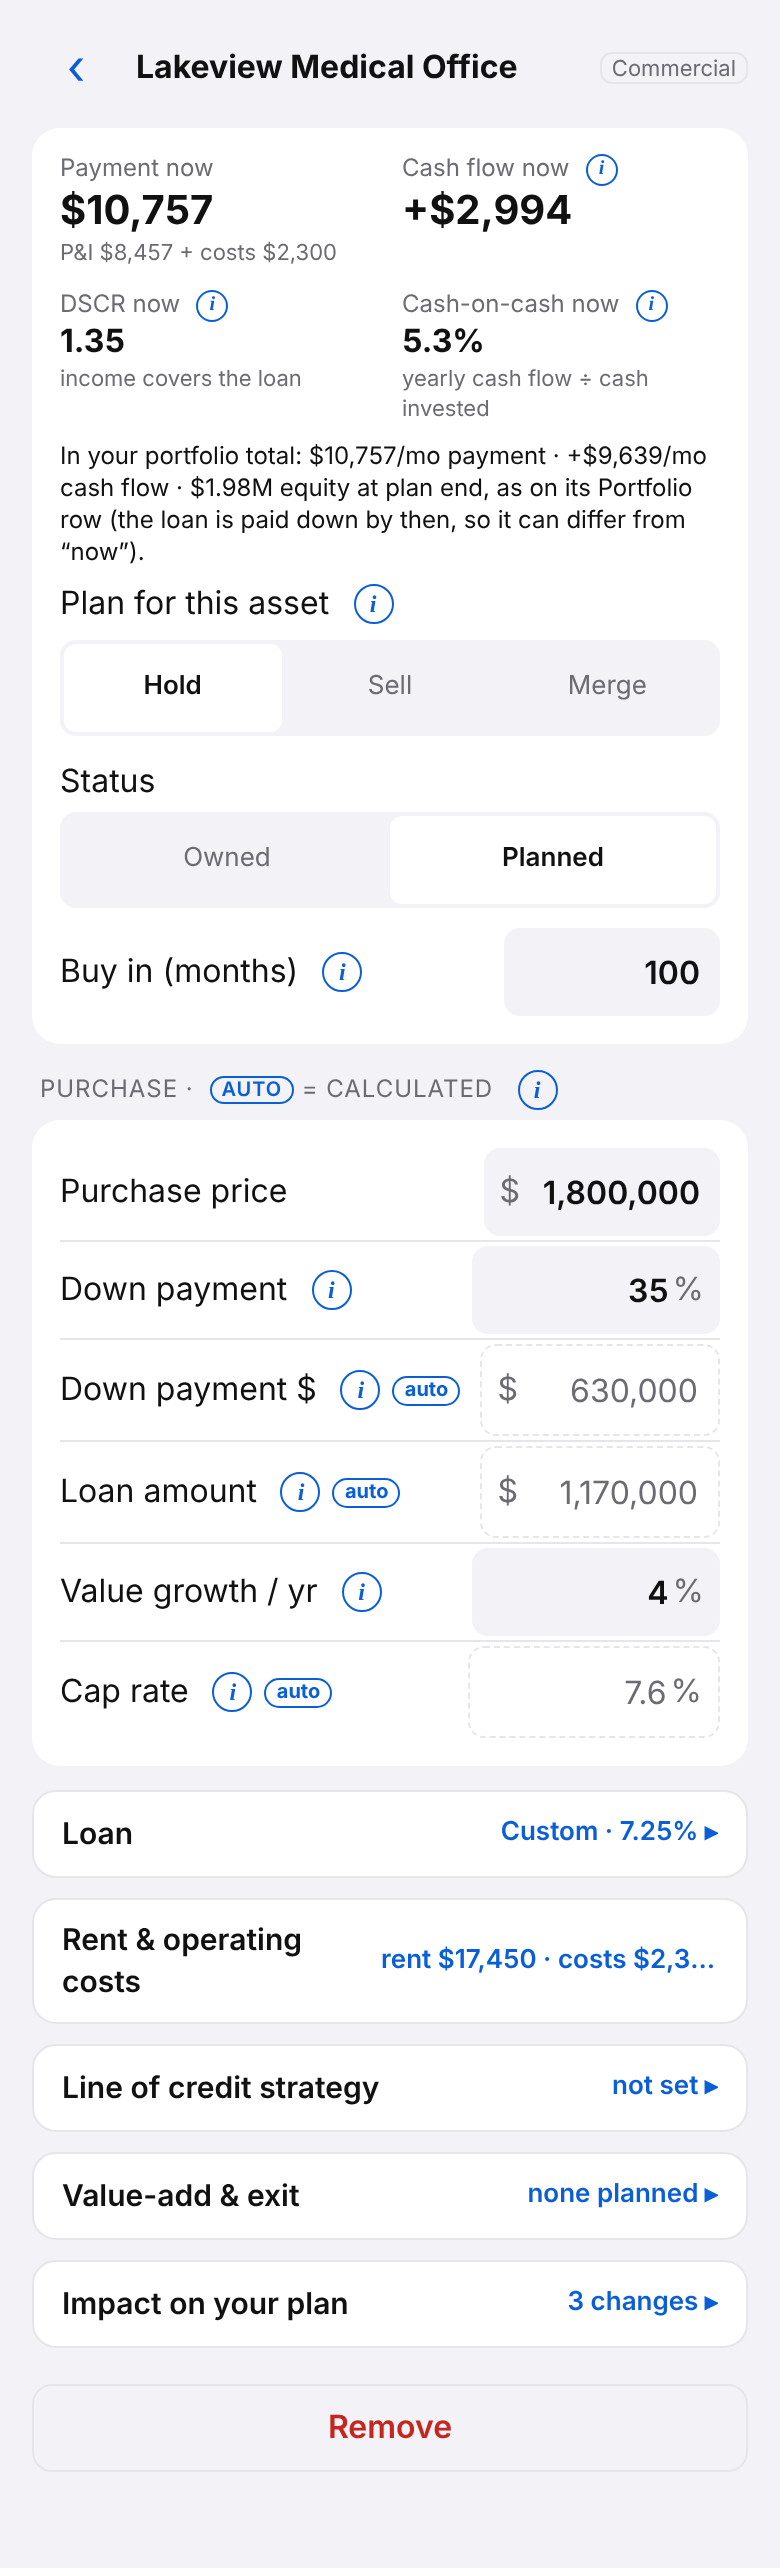
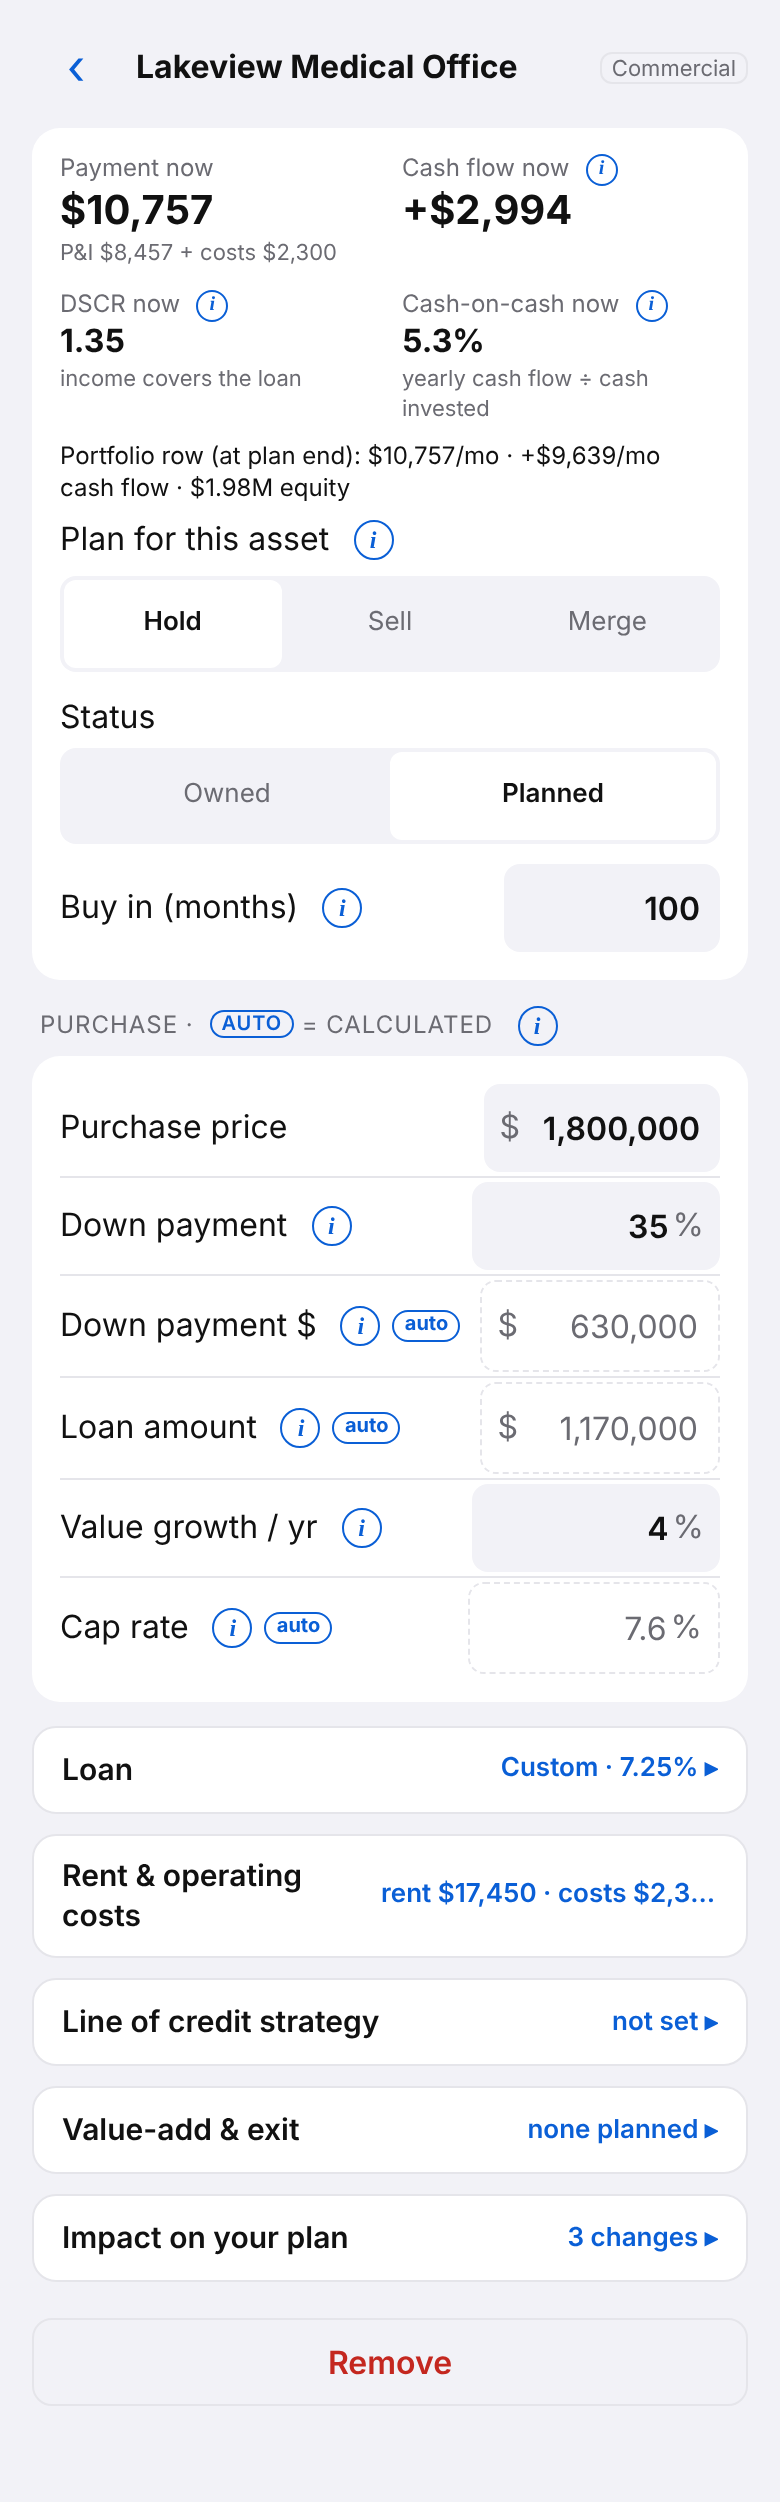
Shorter asset header sentence, Assumptions caption
Claude-Session: https://claude.ai/code/session_01T1SyQgdTcpALEohR2VebD5

diff --git a/prototype/v4/artifact.html b/prototype/v4/artifact.html
@@ -898,7 +898,7 @@ table.cmp td:first-child{white-space:nowrap}
     ${h.fresh && type === 'house' ? `<section class="card"><b>Have a Zillow listing?</b><p class="note">Fill in price, rent, taxes and insurance from a file.</p><button class="btn plain" data-go="import/${h.id}" data-testid="import-listing">Import from listing file</button></section>` : ''}
     <section class="card"><div class="kg">${kpi('h-payment', 'Payment now', $f(v.payment), (() => { const parts = []; if (v.P > 0) parts.push((h.io ? 'interest ' : 'P&amp;I ') + $f(v.P)); if (v.X > 0.5) parts.push('extra ' + $f(v.X)); if (v.escrow > 0) parts.push('costs ' + $f(v.escrow)); if (v.mip > 0) parts.push('insurance ' + $f(v.mip)); return parts.length > 1 ? parts.join(' + ') : ''; })())}${kpi('h-cf', 'Cash flow now', $s(v.cf), v.X > 0.5 ? `${$s(v.cf - v.X)} after extra` : '', v.cf < 0 ? 'bad' : '')}
       ${kpi('h-dscr', 'DSCR now', r(dscrH, 2), isFinite(dscrH) ? (dscrH >= 1.2 ? 'income covers the loan' : dscrH >= 1 ? 'thin cushion' : 'below 1.0') : 'no loan payment', isFinite(dscrH) && dscrH < 1 ? 'bad' : '', 1)}${kpi('h-coc', 'Cash-on-cash now', isFinite(coc) ? r(coc, 1) + '%' : '—', 'yearly cash flow ÷ cash invested', coc < 0 ? 'bad' : '', 1)}</div>
-      <p class="note share" data-testid="asset-share">${(() => { const sp = pl.snap.find((x) => x.id === h.id), ex = pl.exits[h.id]; if (ex && pl.sellAt[h.id] <= pl.planM) return 'In your portfolio total: sold in ' + mm(pl.sellAt[h.id]) + ' for ' + $c(ex.proceeds) + ', counted as cash.'; if (!sp) return 'In your portfolio total: not bought in this plan yet.'; return 'In your portfolio total: ' + $f(sp.payment) + '/mo payment · ' + $s(sp.cf) + '/mo cash flow · ' + $c(sp.equity) + ' equity at plan end, as on its Portfolio row (the loan is paid down by then, so it can differ from “now”).'; })()}</p>
+      <p class="note share" data-testid="asset-share">${(() => { const sp = pl.snap.find((x) => x.id === h.id), ex = pl.exits[h.id]; if (ex && pl.sellAt[h.id] <= pl.planM) return 'In your portfolio total: sold in ' + mm(pl.sellAt[h.id]) + ' for ' + $c(ex.proceeds) + ', counted as cash.'; if (!sp) return 'In your portfolio total: not bought in this plan yet.'; return 'Portfolio row (at plan end): ' + (sp.payment > 0.5 ? $f(sp.payment) + '/mo' : 'no loan') + ' · ' + $s(sp.cf) + '/mo cash flow · ' + $c(sp.equity) + ' equity'; })()}</p>
       <div class="f" style="border-top:0;min-height:36px"><span class="lb">Plan for this asset${infoBtn('exit')}</span></div><div class="seg" style="margin-top:0" role="tablist"><button data-exit="hold" class="${h.exit === 'hold' ? 'on' : ''}">Hold</button><button data-exit="sell" class="${h.exit === 'sell' ? 'on' : ''}" data-testid="exit-sell">Sell</button><button data-exit="merge" class="${h.exit === 'merge' ? 'on' : ''}">Merge</button></div>
       <div class="f" style="border-top:0;min-height:30px"><span class="lb">Status</span></div><div class="seg" style="margin-top:0"><button class="${h.status === 'owned' ? 'on' : ''}" data-status="owned">Owned</button><button class="${h.status === 'planned' ? 'on' : ''}" data-status="planned">Planned</button></div>${timing}</section>
     ${h.listingUrl ? `<p class="note" style="margin:10px 4px 0">Imported from a listing${h.info && h.info.beds ? ' · ' + h.info.beds + ' bd / ' + h.info.baths + ' ba · ' + (h.info.sqft || '?') + ' sqft' : ''}.</p>` : ''}
@@ -988,7 +988,7 @@ table.cmp td:first-child{white-space:nowrap}
     const g = S.g, F = (l, k, o) => field(l, 'g.' + k, o && o.pre === '$' ? grp(g[k]) : g[k], o);
     return `<div class="top"><button class="ic" data-go="" aria-label="Back">‹</button><h2>Assumptions</h2></div>
     <p class="note" style="margin:0 4px 6px">Defaults work for most people. Change them when you know your lender.</p>
-    <div class="sec">Borrowing</div><section class="card">${F('Max loan vs value', 'cap', { suf: '%' })}${F('Appraisal cut', 'haircut', { suf: '%' })}${F('Closing costs', 'closing', { suf: '%' })}${F('Line of credit rate', 'hrate', { suf: '%' })}</section>
+    <div class="sec">Borrowing</div><section class="card">${F('Max loan vs value', 'cap', { suf: '%' })}${F('Appraisal cut', 'haircut', { suf: '%' })}${F('Closing costs', 'closing', { suf: '%' })}${F('Line of credit rate', 'hrate', { suf: '%' })}<p class="note">Appraisal cut: what lenders subtract from a home's value. Rent counted: the share of rent lenders accept as income.</p></section>
     <div class="sec">Who helps you qualify</div><section class="card">${F('Co-signer 1 / yr', 'p1', { pre: '$' })}${F('Co-signer 2 / yr', 'p2', { pre: '$' })}<p class="note">Co-signers help you qualify for loans. Their income counts toward the lender's limit.</p>${F('Debt-to-income limit', 'dti', { suf: '%' })}${F('Rent counted', 'rentCount', { suf: '%' })}${F('Other monthly debts', 'otherDebt', { pre: '$' })}</section>
     <div class="sec">Operating costs</div><section class="card">${F('Vacancy', 'vac', { suf: '%' })}${F('Management (of rent)', 'mgmt', { suf: '%' })}${F('Repairs / yr', 'maint', { suf: '%' })}${F('Growth / yr', 'appr', { suf: '%' })}${F('Projection length (years)', 'planYears', {})}</section>
     ${colSec('backup', 'Backup and restore', 'on this device', `<section class="card">

diff --git a/prototype/v4/app.js b/prototype/v4/app.js
@@ -185,7 +185,7 @@
     ${h.fresh && type === 'house' ? `<section class="card"><b>Have a Zillow listing?</b><p class="note">Fill in price, rent, taxes and insurance from a file.</p><button class="btn plain" data-go="import/${h.id}" data-testid="import-listing">Import from listing file</button></section>` : ''}
     <section class="card"><div class="kg">${kpi('h-payment', 'Payment now', $f(v.payment), (() => { const parts = []; if (v.P > 0) parts.push((h.io ? 'interest ' : 'P&amp;I ') + $f(v.P)); if (v.X > 0.5) parts.push('extra ' + $f(v.X)); if (v.escrow > 0) parts.push('costs ' + $f(v.escrow)); if (v.mip > 0) parts.push('insurance ' + $f(v.mip)); return parts.length > 1 ? parts.join(' + ') : ''; })())}${kpi('h-cf', 'Cash flow now', $s(v.cf), v.X > 0.5 ? `${$s(v.cf - v.X)} after extra` : '', v.cf < 0 ? 'bad' : '')}
       ${kpi('h-dscr', 'DSCR now', r(dscrH, 2), isFinite(dscrH) ? (dscrH >= 1.2 ? 'income covers the loan' : dscrH >= 1 ? 'thin cushion' : 'below 1.0') : 'no loan payment', isFinite(dscrH) && dscrH < 1 ? 'bad' : '', 1)}${kpi('h-coc', 'Cash-on-cash now', isFinite(coc) ? r(coc, 1) + '%' : '—', 'yearly cash flow ÷ cash invested', coc < 0 ? 'bad' : '', 1)}</div>
-      <p class="note share" data-testid="asset-share">${(() => { const sp = pl.snap.find((x) => x.id === h.id), ex = pl.exits[h.id]; if (ex && pl.sellAt[h.id] <= pl.planM) return 'In your portfolio total: sold in ' + mm(pl.sellAt[h.id]) + ' for ' + $c(ex.proceeds) + ', counted as cash.'; if (!sp) return 'In your portfolio total: not bought in this plan yet.'; return 'In your portfolio total: ' + $f(sp.payment) + '/mo payment · ' + $s(sp.cf) + '/mo cash flow · ' + $c(sp.equity) + ' equity at plan end, as on its Portfolio row (the loan is paid down by then, so it can differ from “now”).'; })()}</p>
+      <p class="note share" data-testid="asset-share">${(() => { const sp = pl.snap.find((x) => x.id === h.id), ex = pl.exits[h.id]; if (ex && pl.sellAt[h.id] <= pl.planM) return 'In your portfolio total: sold in ' + mm(pl.sellAt[h.id]) + ' for ' + $c(ex.proceeds) + ', counted as cash.'; if (!sp) return 'In your portfolio total: not bought in this plan yet.'; return 'Portfolio row (at plan end): ' + (sp.payment > 0.5 ? $f(sp.payment) + '/mo' : 'no loan') + ' · ' + $s(sp.cf) + '/mo cash flow · ' + $c(sp.equity) + ' equity'; })()}</p>
       <div class="f" style="border-top:0;min-height:36px"><span class="lb">Plan for this asset${infoBtn('exit')}</span></div><div class="seg" style="margin-top:0" role="tablist"><button data-exit="hold" class="${h.exit === 'hold' ? 'on' : ''}">Hold</button><button data-exit="sell" class="${h.exit === 'sell' ? 'on' : ''}" data-testid="exit-sell">Sell</button><button data-exit="merge" class="${h.exit === 'merge' ? 'on' : ''}">Merge</button></div>
       <div class="f" style="border-top:0;min-height:30px"><span class="lb">Status</span></div><div class="seg" style="margin-top:0"><button class="${h.status === 'owned' ? 'on' : ''}" data-status="owned">Owned</button><button class="${h.status === 'planned' ? 'on' : ''}" data-status="planned">Planned</button></div>${timing}</section>
     ${h.listingUrl ? `<p class="note" style="margin:10px 4px 0">Imported from a listing${h.info && h.info.beds ? ' · ' + h.info.beds + ' bd / ' + h.info.baths + ' ba · ' + (h.info.sqft || '?') + ' sqft' : ''}.</p>` : ''}
@@ -275,7 +275,7 @@
     const g = S.g, F = (l, k, o) => field(l, 'g.' + k, o && o.pre === '$' ? grp(g[k]) : g[k], o);
     return `<div class="top"><button class="ic" data-go="" aria-label="Back">‹</button><h2>Assumptions</h2></div>
     <p class="note" style="margin:0 4px 6px">Defaults work for most people. Change them when you know your lender.</p>
-    <div class="sec">Borrowing</div><section class="card">${F('Max loan vs value', 'cap', { suf: '%' })}${F('Appraisal cut', 'haircut', { suf: '%' })}${F('Closing costs', 'closing', { suf: '%' })}${F('Line of credit rate', 'hrate', { suf: '%' })}</section>
+    <div class="sec">Borrowing</div><section class="card">${F('Max loan vs value', 'cap', { suf: '%' })}${F('Appraisal cut', 'haircut', { suf: '%' })}${F('Closing costs', 'closing', { suf: '%' })}${F('Line of credit rate', 'hrate', { suf: '%' })}<p class="note">Appraisal cut: what lenders subtract from a home's value. Rent counted: the share of rent lenders accept as income.</p></section>
     <div class="sec">Who helps you qualify</div><section class="card">${F('Co-signer 1 / yr', 'p1', { pre: '$' })}${F('Co-signer 2 / yr', 'p2', { pre: '$' })}<p class="note">Co-signers help you qualify for loans. Their income counts toward the lender's limit.</p>${F('Debt-to-income limit', 'dti', { suf: '%' })}${F('Rent counted', 'rentCount', { suf: '%' })}${F('Other monthly debts', 'otherDebt', { pre: '$' })}</section>
     <div class="sec">Operating costs</div><section class="card">${F('Vacancy', 'vac', { suf: '%' })}${F('Management (of rent)', 'mgmt', { suf: '%' })}${F('Repairs / yr', 'maint', { suf: '%' })}${F('Growth / yr', 'appr', { suf: '%' })}${F('Projection length (years)', 'planYears', {})}</section>
     ${colSec('backup', 'Backup and restore', 'on this device', `<section class="card">
